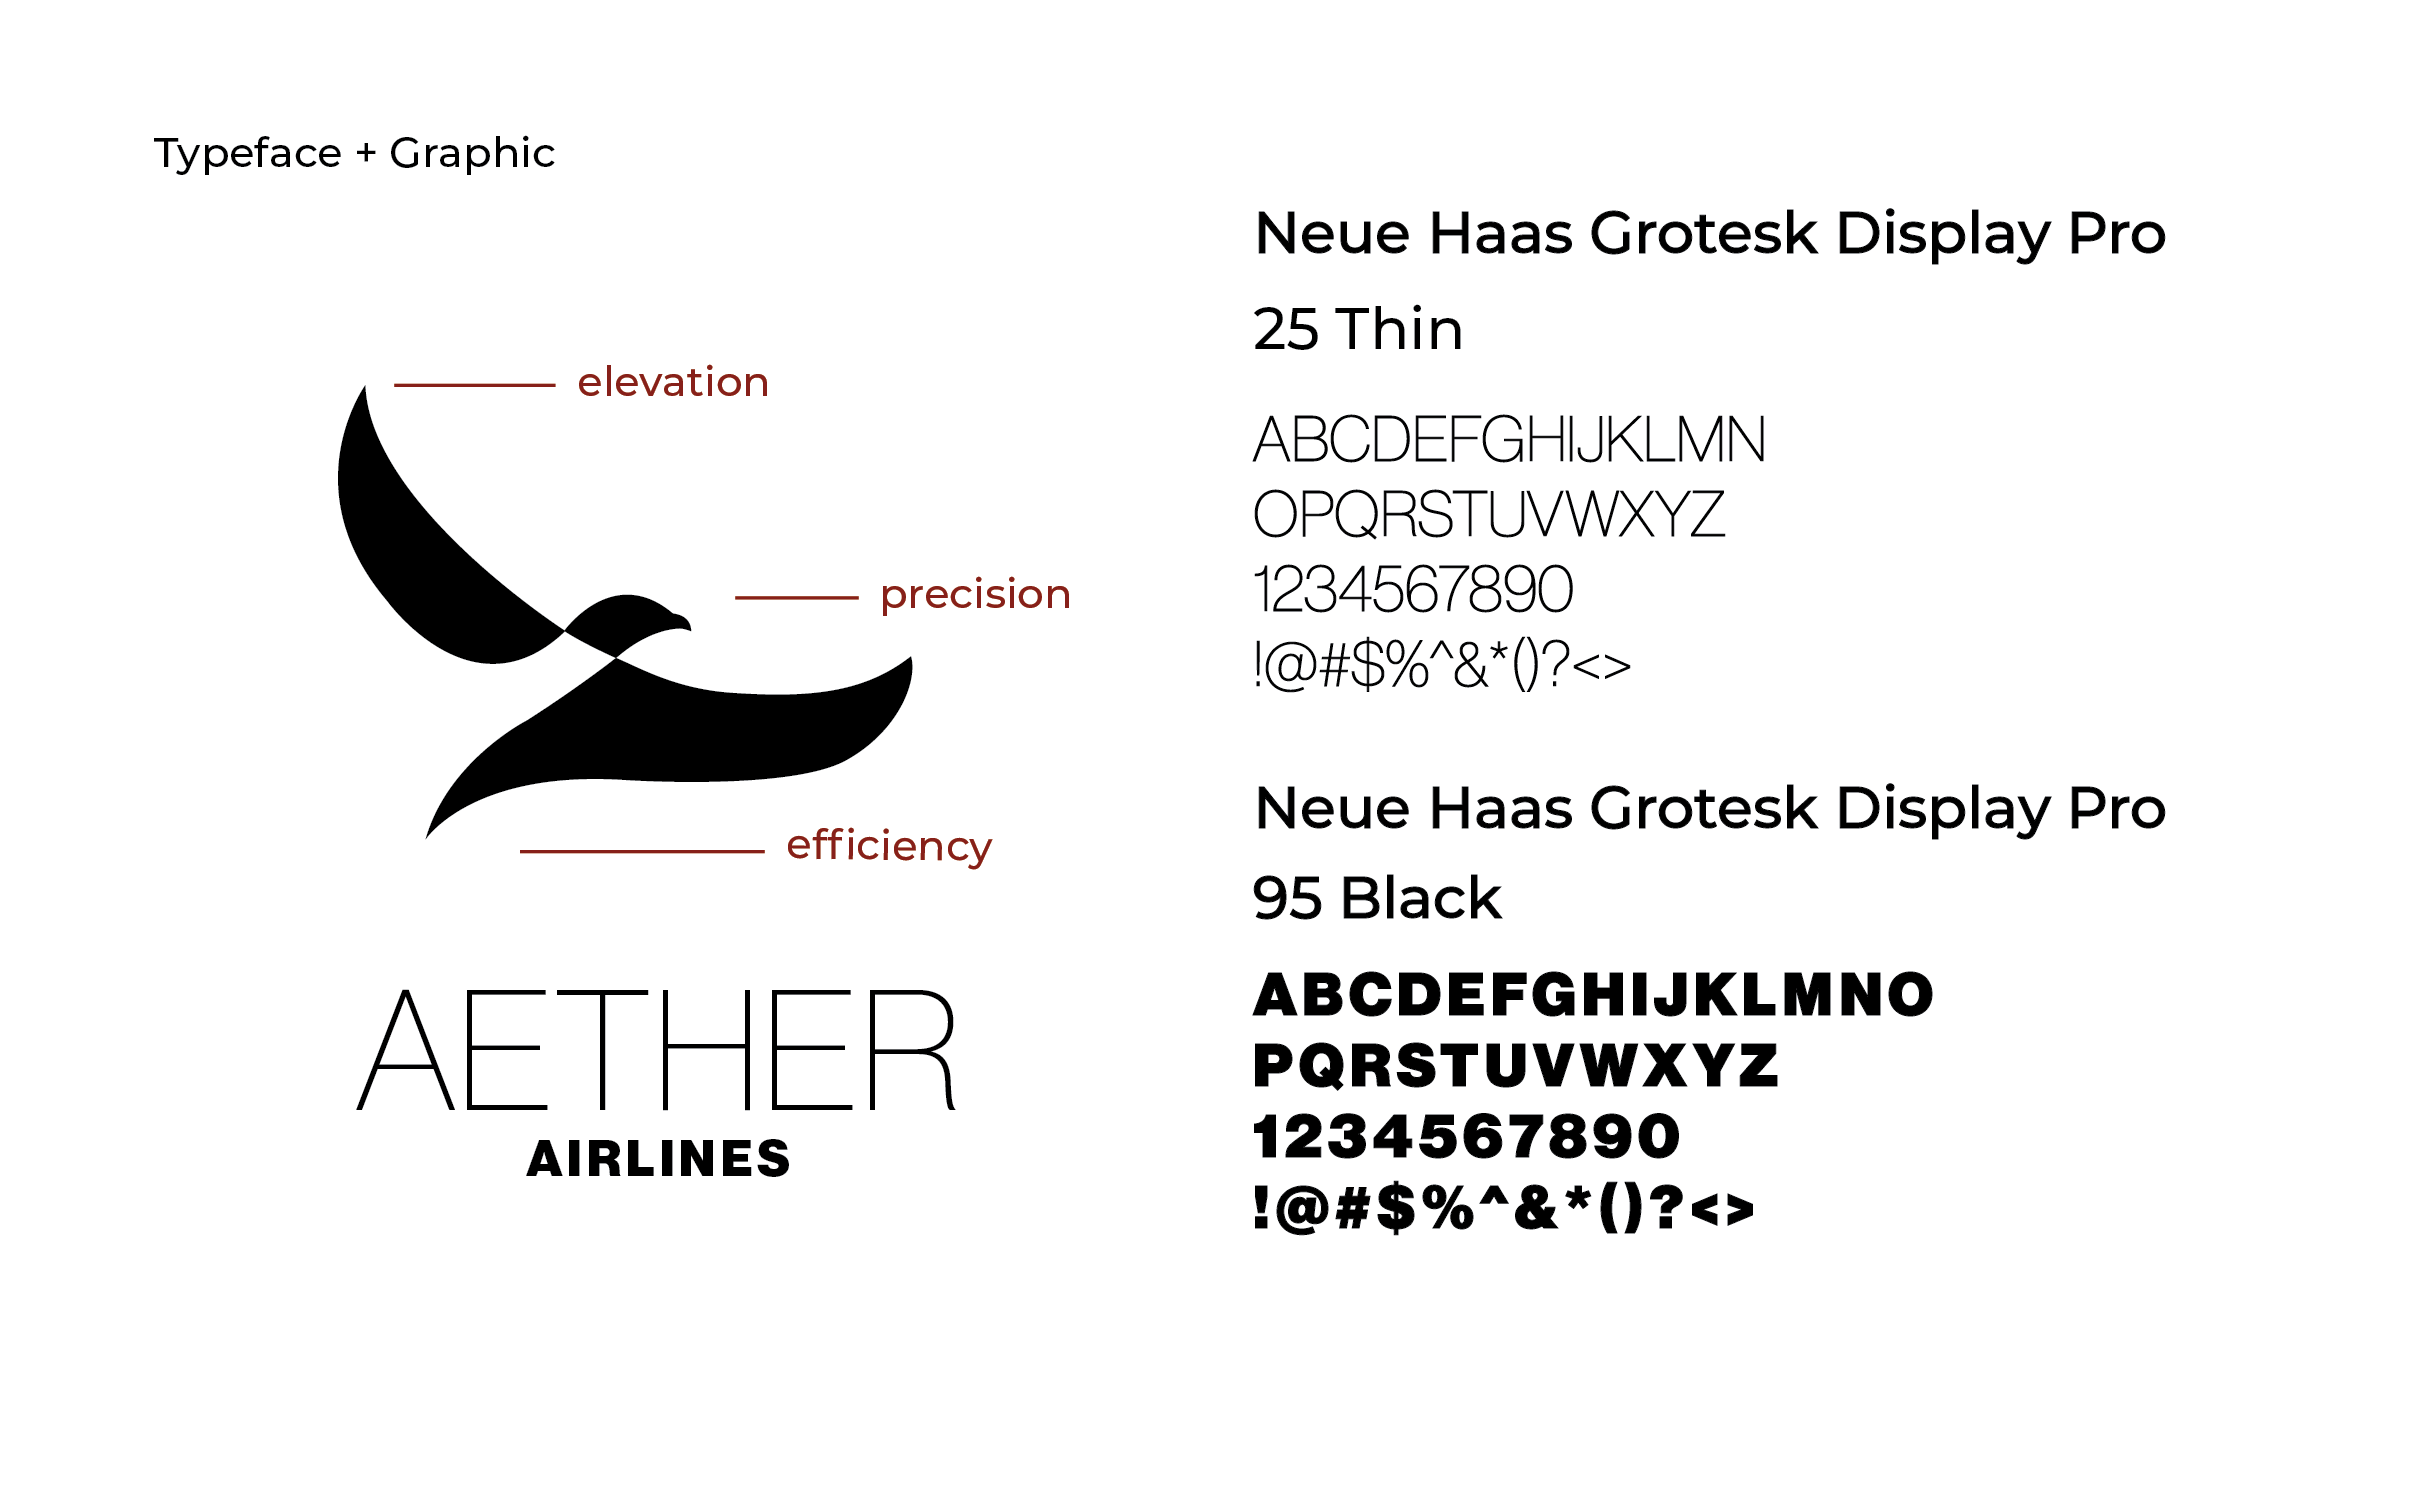
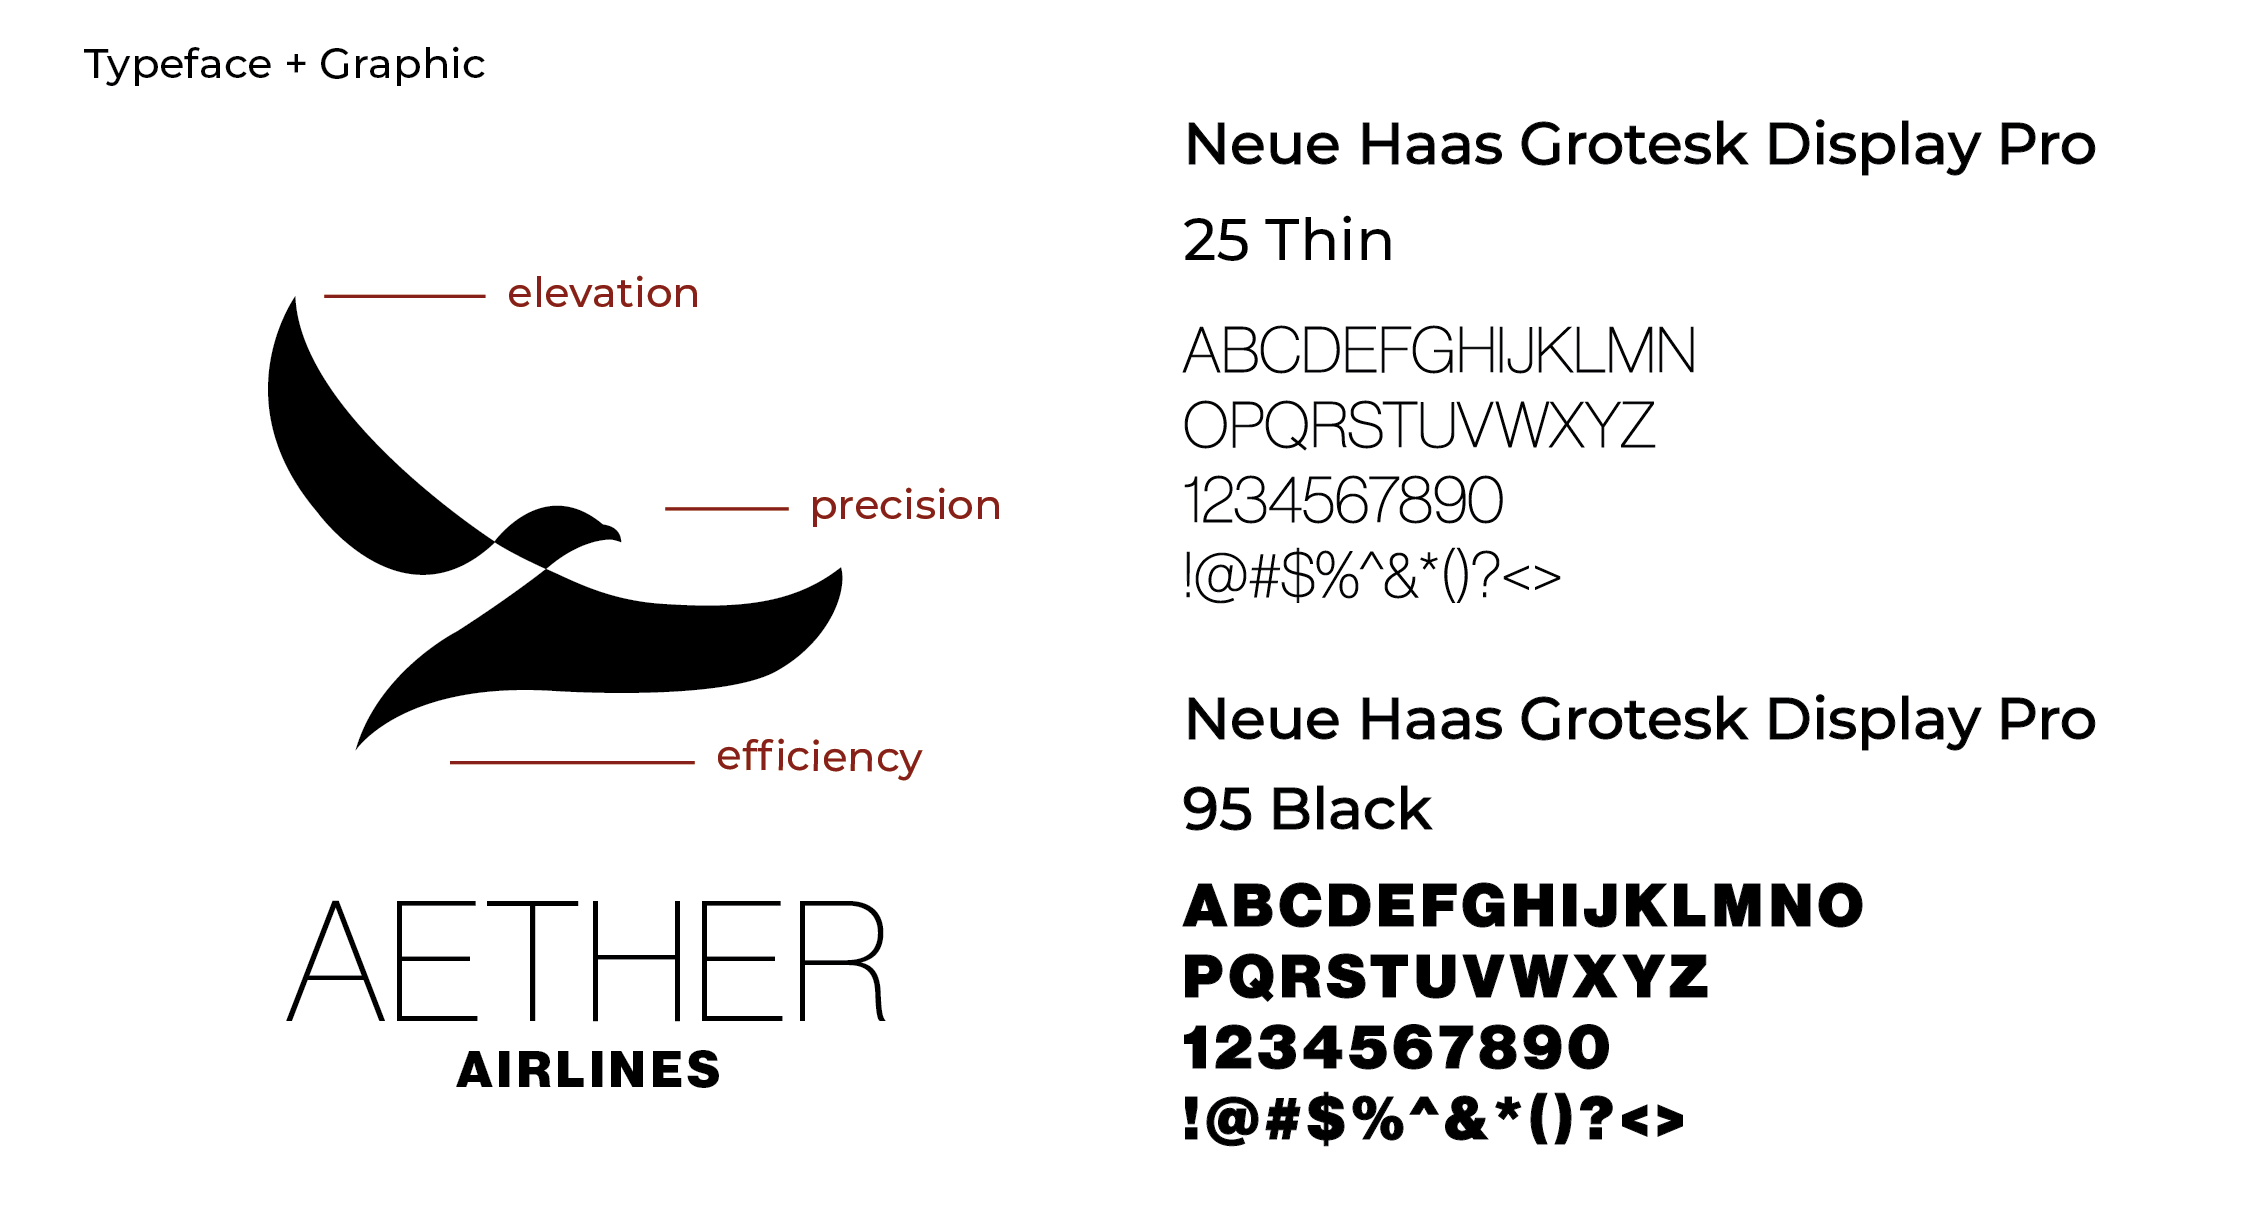
up aa-branding

diff --git a/css/aether-branding.css b/css/aether-branding.css
@@ -171,10 +171,12 @@
 } */
 
 .case-aetherair-branding .step-typeface-centered img.shapes-img {
-    width: 80% !important;
+    width: 60% !important;
     display: block;
-    margin: 24px auto 0;
+    margin: 18px auto 0;
 }
+
+
 
 /* responsive */
 @media (max-width: 900px) {

diff --git a/css/page-casestudy.css b/css/page-casestudy.css
@@ -919,7 +919,7 @@ body.case-flat .site-header {
 .step-visuals {
     display: grid;
     grid-template-columns: 1fr 1fr;
-    gap: 40px 48px;
+    gap: 30px 48px;
 }
 
 .step-visuals .step-copy {
